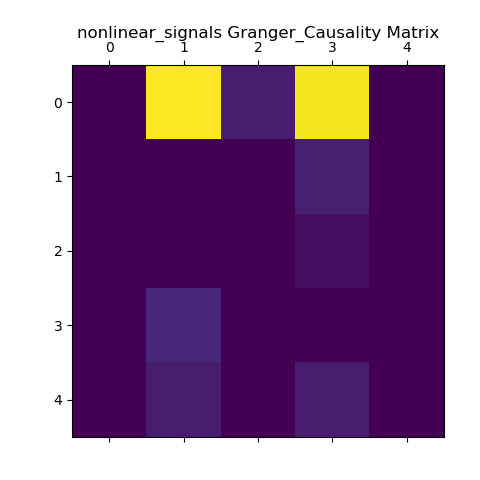
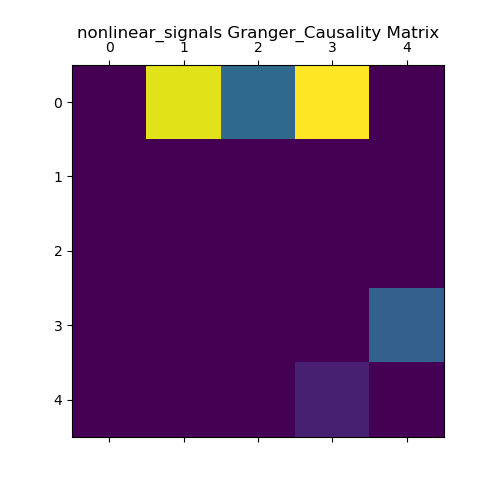
update files

Changed region(s): [[0.2812, 0.125, 0.7812, 0.4688], [0.2812, 0.5938, 0.4688, 0.9375], [0.75, 0.5938, 0.9375, 0.7812]]

diff --git a/core/loader.py b/core/loader.py
@@ -136,7 +136,6 @@ def series2xy(series_data: np.ndarray, idx_x = None, idx_y = None, seq_length: i
         else:
             inputs.append(series_data[idx:(idx + seq_length), idx_x])
             targets.append(series_data[idx + seq_length, idx_y])
-    
     return np.array(inputs), np.array(targets)
 
 
@@ -177,12 +176,15 @@ def make_loader(seq_data: np.ndarray, idx_x = None, idx_y = None, tt_split = 0.7
         seq_data (np.ndarray): 原始的序列数据
         idx_x (list or tuple or index slice or int): x 的索引位置, defaults to None.
         idx_y (list or tuple or index slice or int): y 的索引位置, defaults to None.
-        tt_split (float, optional): Defaults to 0.7. 训练集所占的比例
+        tt_split (float, optional): Defaults to 0.7. 训练集测试集划分时训练集所占的比例
+        tv_split (float, optional): Defaults to 0.7. 训练集验证集划分时训练集所占的比例
         seq_len (int, optional): Defaults to 20. 窗口的长度
+        num_shift (int, optional): Defaults to 1. 窗口每次平移的距离
         bt_sz (int, optional): Defaults to 32. batchsize
+        s_type (str, optional): Defaults to 'MinMaxScaler'. 归一化方式
 
     Returns:
-        [torch.utils.data.DataLoader]: train_loader, test_loader
+        [torch.utils.data.DataLoader]: train_loader, valid_loader, test_loader
     """
 
     # 训练集、测试集数据分割

diff --git a/RNN_GC.py b/RNN_GC.py
@@ -81,7 +81,7 @@ if __name__ == '__main__':
     # RNN_GC
     avg_gc_matrix = 0
     # for signal_type in all_signal_type:
-    signal_type = all_signal_type[1]
+    signal_type = all_signal_type[2]
     print(f'signal type: {signal_type}')
     cfg = config[signal_type]
     for _ in range(cfg['num_trial']):
